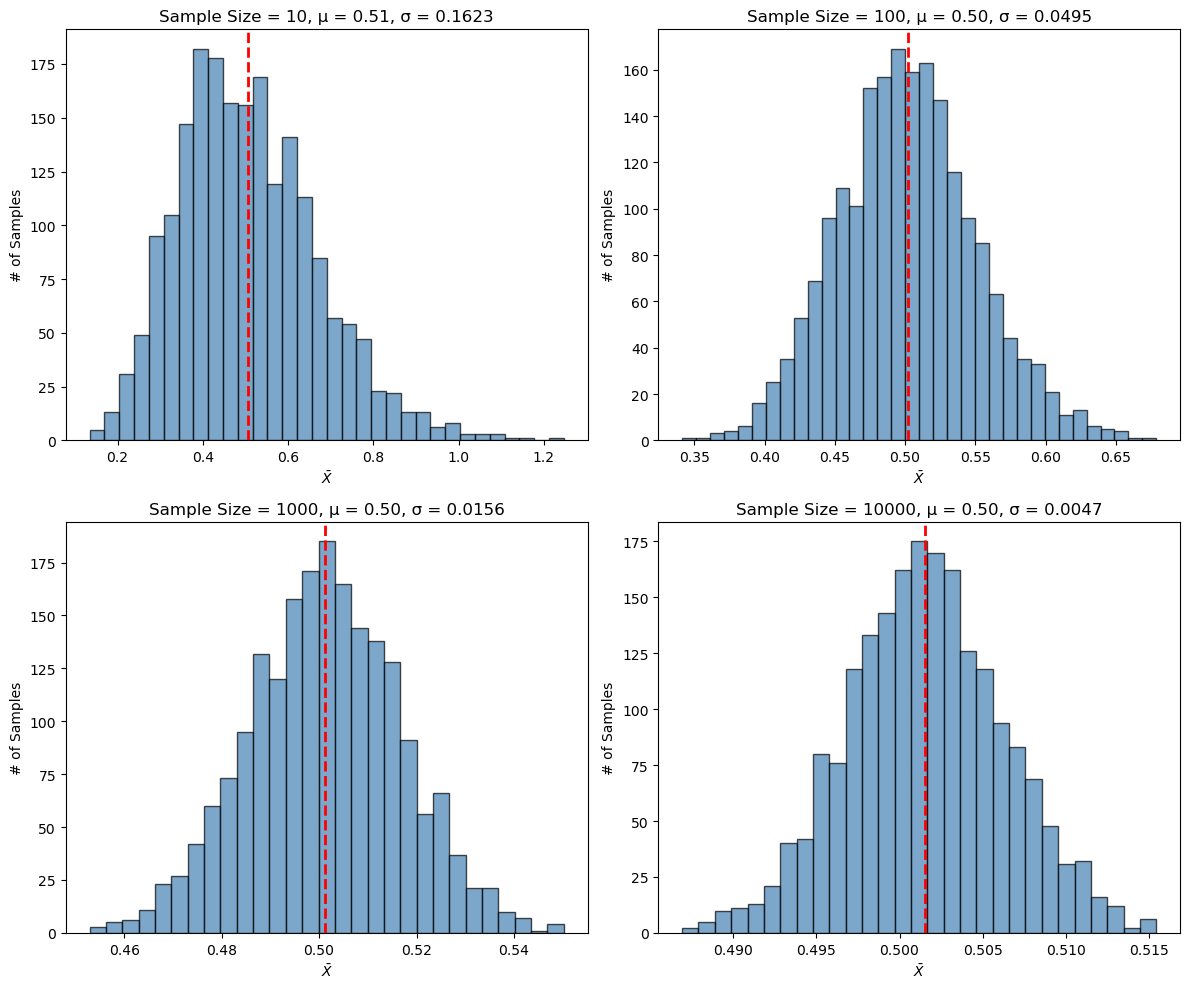
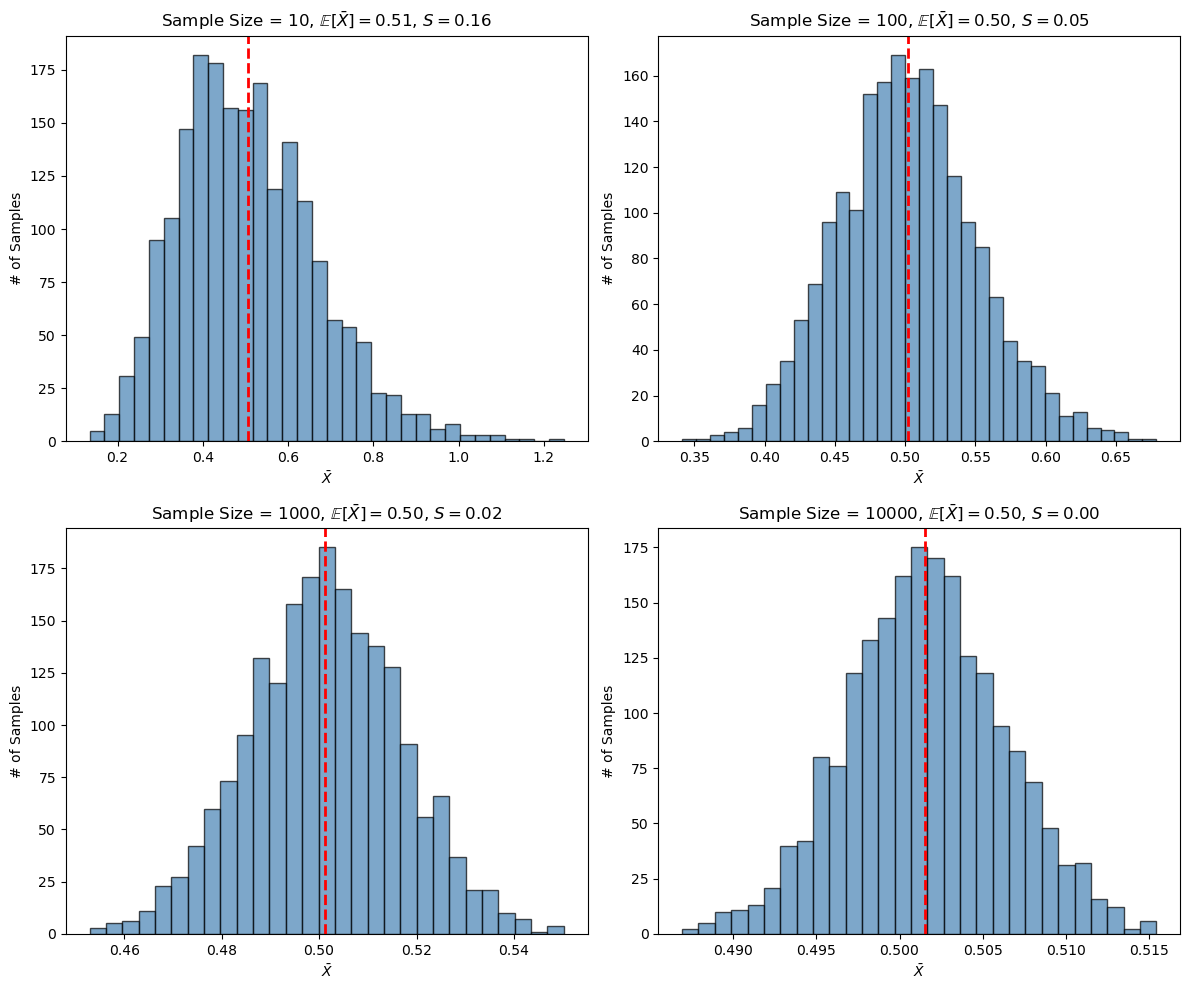
deploy: c1ba12d8c83bbf9eb0a5689657a16dceb7d09241

diff --git a/cn/2024/09/24/clt/index.html b/cn/2024/09/24/clt/index.html
@@ -35,9 +35,9 @@
 </header>
 <main class=content role=main>
 <div style=text-align:center>
-<h1>用模拟的方法学习统计学之中心极限定理</h1>
+<h1>理解中心极限定理</h1>
 <p>郝鸿涛
-/ 2024-09-17 </p>
+/ 2024-09-24 </p>
 </div>
 <span class=article-toolbar>
 <a href=https://github.com/hongtaoh/hongtaoh.github.io/edit/sources/content/cn/blog/2024-09-17-stats-simulation.md style=font-size:24px;color:#000 target=_blank><i class="fa fa-edit" aria-hidden=true title=编辑本页></i>
@@ -69,7 +69,7 @@ Table of Contents:
 </blockquote>
 <h2 id=标准误>标准误<a href=#标准误 class=header-anchor arialabel=Anchor> # </a></h2>
 <p>如果我们只用模拟，不用数学公式。上面这题就很好解决：80 亿人抽 100 个人，我们重复 1 万次，每次都算出平均值。平均值大于等于 110 的次数除以 1 万，就是随机抽取 100 人，该 100 人平均智商大于等于 110 的概率。这个应该很好理解吧？</p>
-<p>但我们不满足于此。我们想看看从正态分布为 <code>$\mathcal{N}(\mu, \sigma^2)$</code> 的母体中随机抽取 <code>$M$</code> 个大小为 <code>$N$</code> 的样本。每个样本算出其平均值 (<code>$\bar{X}$</code>)，也就是说总共有 <code>$M$</code> 个 <code>$\bar{X}$</code>。我们想看一下所有 <code>$\bar{X}$</code> 的分布是否存在某种规律。顺带提一句：这个分布的标准差被称为「标准误 (standard error)」。</p>
+<p>但我们不满足于此。我们想看看从正态分布为 <code>$\mathcal{N}(\mu, \sigma^2)$</code> 的母体中随机抽取 <code>$M$</code> 个大小为 <code>$N$</code> 的样本。每个样本算出其平均值 (<code>$\bar{X}$</code>)，也就是说总共有 <code>$M$</code> 个 <code>$\bar{X}$</code>。我们想看一下 <code>$\bar{X}$</code> 的分布是否存在某种规律。顺带提一句：这个分布的标准差被称为「标准误 (standard error)」。</p>
 <p>我们先把母体的正态分布模拟一下：</p>
 <div class=highlight><pre tabindex=0 style=-moz-tab-size:4;-o-tab-size:4;tab-size:4><code class=language-python data-lang=python><span style=color:green;font-weight:700>import</span> <span style=color:#00f;font-weight:700>numpy</span> <span style=color:green;font-weight:700>as</span> <span style=color:#00f;font-weight:700>np</span>
 <span style=color:green;font-weight:700>import</span> <span style=color:#00f;font-weight:700>matplotlib.pyplot</span> <span style=color:green;font-weight:700>as</span> <span style=color:#00f;font-weight:700>plt</span>
@@ -129,7 +129,7 @@ plt<span style=color:#666>.</span>figure(figsize<span style=color:#666>=</span>(
              alpha<span style=color:#666>=</span><span style=color:#666>0.7</span>, color<span style=color:#666>=</span><span style=color:#ba2121>&#39;steelblue&#39;</span>, edgecolor<span style=color:#666>=</span><span style=color:#ba2121>&#39;black&#39;</span>)
     <span style=color:#408080;font-style:italic># Plot vertical line at the mean</span>
     plt<span style=color:#666>.</span>axvline(mu, color<span style=color:#666>=</span><span style=color:#ba2121>&#39;red&#39;</span>, linestyle<span style=color:#666>=</span><span style=color:#ba2121>&#39;--&#39;</span>, linewidth<span style=color:#666>=</span><span style=color:#666>2</span>)
-    plt<span style=color:#666>.</span>title(<span style=color:#ba2121>f</span><span style=color:#ba2121>&#39;Sample Size = </span><span style=color:#b68;font-weight:700>{</span>size<span style=color:#b68;font-weight:700>}</span><span style=color:#ba2121>, μ = </span><span style=color:#b68;font-weight:700>{</span>mu<span style=color:#b68;font-weight:700>:</span><span style=color:#ba2121>.2f</span><span style=color:#b68;font-weight:700>}</span><span style=color:#ba2121>, σ = </span><span style=color:#b68;font-weight:700>{</span>sigma<span style=color:#b68;font-weight:700>:</span><span style=color:#ba2121>.2f</span><span style=color:#b68;font-weight:700>}</span><span style=color:#ba2121>&#39;</span>)    
+    plt<span style=color:#666>.</span>title(<span style=color:#ba2121>rf</span><span style=color:#ba2121>&#39;Sample Size = </span><span style=color:#b68;font-weight:700>{</span>size<span style=color:#b68;font-weight:700>}</span><span style=color:#ba2121>, `$\mathbb</span><span style=color:#b62;font-weight:700>{{</span><span style=color:#ba2121>E</span><span style=color:#b62;font-weight:700>}}</span><span style=color:#ba2121>[\bar</span><span style=color:#b62;font-weight:700>{{</span><span style=color:#ba2121>X</span><span style=color:#b62;font-weight:700>}}</span><span style=color:#ba2121>] = </span><span style=color:#b68;font-weight:700>{</span>mu<span style=color:#b68;font-weight:700>:</span><span style=color:#ba2121>.2f</span><span style=color:#b68;font-weight:700>}</span><span style=color:#ba2121>$`, `$S = </span><span style=color:#b68;font-weight:700>{</span>sigma<span style=color:#b68;font-weight:700>:</span><span style=color:#ba2121>.2f</span><span style=color:#b68;font-weight:700>}</span><span style=color:#ba2121>$`&#39;</span>)
     plt<span style=color:#666>.</span>xlabel(<span style=color:#ba2121>&#39;`$</span><span style=color:#b62;font-weight:700>\\</span><span style=color:#ba2121>bar{{X}}$`&#39;</span>)
     plt<span style=color:#666>.</span>ylabel(<span style=color:#ba2121>&#39;# of Samples&#39;</span>)
 
@@ -146,16 +146,16 @@ plt<span style=color:#666>.</span>show()
     sub_data <span style=color:#666>=</span> sample_means[sample_size]
     mu <span style=color:#666>=</span> np<span style=color:#666>.</span>mean(sub_data)
     sigma <span style=color:#666>=</span> np<span style=color:#666>.</span>std(sub_data)
-    <span style=color:green>print</span>(<span style=color:#ba2121>f</span><span style=color:#ba2121>&#34;N = </span><span style=color:#b68;font-weight:700>{</span>sample_size<span style=color:#b68;font-weight:700>}</span><span style=color:#ba2121>, Mean (X̄) = </span><span style=color:#b68;font-weight:700>{</span>mu<span style=color:#b68;font-weight:700>:</span><span style=color:#ba2121>.2f</span><span style=color:#b68;font-weight:700>}</span><span style=color:#ba2121>, Std (X̄) = </span><span style=color:#b68;font-weight:700>{</span>sigma<span style=color:#b68;font-weight:700>:</span><span style=color:#ba2121>.2f</span><span style=color:#b68;font-weight:700>}</span><span style=color:#ba2121>, &#34;</span> \
+    <span style=color:green>print</span>(<span style=color:#ba2121>f</span><span style=color:#ba2121>&#34;N = </span><span style=color:#b68;font-weight:700>{</span>sample_size<span style=color:#b68;font-weight:700>}</span><span style=color:#ba2121>, 样本平均值的平均值 = </span><span style=color:#b68;font-weight:700>{</span>mu<span style=color:#b68;font-weight:700>:</span><span style=color:#ba2121>.2f</span><span style=color:#b68;font-weight:700>}</span><span style=color:#ba2121>, 样本平均值的标准差 = </span><span style=color:#b68;font-weight:700>{</span>sigma<span style=color:#b68;font-weight:700>:</span><span style=color:#ba2121>.2f</span><span style=color:#b68;font-weight:700>}</span><span style=color:#ba2121>, &#34;</span> \
           <span style=color:#ba2121>f</span><span style=color:#ba2121>&#34;σ/sqrt(</span><span style=color:#b68;font-weight:700>{</span>sample_size<span style=color:#b68;font-weight:700>}</span><span style=color:#ba2121>) = </span><span style=color:#b68;font-weight:700>{</span>(population_sigma<span style=color:#666>/</span>np<span style=color:#666>.</span>sqrt(sample_size))<span style=color:#b68;font-weight:700>:</span><span style=color:#ba2121>.2f</span><span style=color:#b68;font-weight:700>}</span><span style=color:#ba2121>&#34;</span>)
 </code></pre></div><pre><code>μ = 100.01, σ = 15.01
-N = 10, Mean (X̄) = 99.97, Std (X̄) = 4.72, σ/sqrt(10) = 4.75
-N = 100, Mean (X̄) = 100.07, Std (X̄) = 1.49, σ/sqrt(100) = 1.50
-N = 1000, Mean (X̄) = 100.02, Std (X̄) = 0.46, σ/sqrt(1000) = 0.47
-N = 10000, Mean (X̄) = 100.01, Std (X̄) = 0.14, σ/sqrt(10000) = 0.15
+N = 10, 样本平均值的平均值 = 99.97, 样本平均值的标准差 = 4.72, σ/sqrt(10) = 4.75
+N = 100, 样本平均值的平均值 = 100.07, 样本平均值的标准差 = 1.49, σ/sqrt(100) = 1.50
+N = 1000, 样本平均值的平均值 = 100.02, 样本平均值的标准差 = 0.46, σ/sqrt(1000) = 0.47
+N = 10000, 样本平均值的平均值 = 100.01, 样本平均值的标准差 = 0.14, σ/sqrt(10000) = 0.15
 </code></pre>
 <p>结论：</p>
-<p>从一个正态分布 <code>$\mathcal{N}(\mu, \sigma^2)$</code> 的母体中，随机不放回抽取 <code>$M$</code> 个大小为 <code>$N$</code> 的样本，所有样本的平均值 <code>$\bar{X}$</code> 的分布为：</p>
+<p>从一个正态分布 <code>$\mathcal{N}(\mu, \sigma^2)$</code> 的母体中，随机不放回抽取 <code>$M$</code> 个大小为 <code>$N$</code> 的样本，样本的平均值 <code>$\bar{X}$</code> 的分布为：</p>
 <p><code>$$ \bar{X} \sim \mathcal{N} \left( \mu, \frac{\sigma^2}{N} \right) $$</code></p>
 <h3 id=解答问题>解答问题<a href=#解答问题 class=header-anchor arialabel=Anchor> # </a></h3>
 <p>有了以上结论，最初的问题就很好解答了。</p>
@@ -206,10 +206,13 @@ plt<span style=color:#666>.</span>figure(figsize<span style=color:#666>=</span>(
     mu <span style=color:#666>=</span> np<span style=color:#666>.</span>mean(sub_data)
     sigma <span style=color:#666>=</span> np<span style=color:#666>.</span>std(sub_data)
     plt<span style=color:#666>.</span>subplot(<span style=color:#666>2</span>, <span style=color:#666>2</span>, i <span style=color:#666>+</span> <span style=color:#666>1</span>)  <span style=color:#408080;font-style:italic># 2x2 grid, subplot index starts at 1</span>
-    plt<span style=color:#666>.</span>hist(sub_data, bins<span style=color:#666>=</span><span style=color:#ba2121>&#34;auto&#34;</span>, density<span style=color:#666>=</span><span style=color:green;font-weight:700>False</span>, alpha<span style=color:#666>=</span><span style=color:#666>0.7</span>, color<span style=color:#666>=</span><span style=color:#ba2121>&#39;steelblue&#39;</span>, edgecolor<span style=color:#666>=</span><span style=color:#ba2121>&#39;black&#39;</span>)
+    plt<span style=color:#666>.</span>hist(sub_data, bins<span style=color:#666>=</span><span style=color:#ba2121>&#34;auto&#34;</span>, density<span style=color:#666>=</span><span style=color:green;font-weight:700>False</span>,
+             alpha<span style=color:#666>=</span><span style=color:#666>0.7</span>, color<span style=color:#666>=</span><span style=color:#ba2121>&#39;steelblue&#39;</span>, edgecolor<span style=color:#666>=</span><span style=color:#ba2121>&#39;black&#39;</span>)
     <span style=color:#408080;font-style:italic># Plot vertical line at the mean</span>
     plt<span style=color:#666>.</span>axvline(mu, color<span style=color:#666>=</span><span style=color:#ba2121>&#39;red&#39;</span>, linestyle<span style=color:#666>=</span><span style=color:#ba2121>&#39;--&#39;</span>, linewidth<span style=color:#666>=</span><span style=color:#666>2</span>)
-    plt<span style=color:#666>.</span>title(<span style=color:#ba2121>f</span><span style=color:#ba2121>&#39;Sample Size = </span><span style=color:#b68;font-weight:700>{</span>size<span style=color:#b68;font-weight:700>}</span><span style=color:#ba2121>, μ = </span><span style=color:#b68;font-weight:700>{</span>mu<span style=color:#b68;font-weight:700>:</span><span style=color:#ba2121>.2f</span><span style=color:#b68;font-weight:700>}</span><span style=color:#ba2121>, σ = </span><span style=color:#b68;font-weight:700>{</span>sigma<span style=color:#b68;font-weight:700>:</span><span style=color:#ba2121>.4f</span><span style=color:#b68;font-weight:700>}</span><span style=color:#ba2121>&#39;</span>)    
+    plt<span style=color:#666>.</span>title(<span style=color:#ba2121>rf</span><span style=color:#ba2121>&#39;Sample Size = </span><span style=color:#b68;font-weight:700>{</span>size<span style=color:#b68;font-weight:700>}</span><span style=color:#ba2121>, &#39;</span>
+              <span style=color:#ba2121>rf</span><span style=color:#ba2121>&#39;`$\mathbb</span><span style=color:#b62;font-weight:700>{{</span><span style=color:#ba2121>E</span><span style=color:#b62;font-weight:700>}}</span><span style=color:#ba2121>[\bar</span><span style=color:#b62;font-weight:700>{{</span><span style=color:#ba2121>X</span><span style=color:#b62;font-weight:700>}}</span><span style=color:#ba2121>] = </span><span style=color:#b68;font-weight:700>{</span>mu<span style=color:#b68;font-weight:700>:</span><span style=color:#ba2121>.2f</span><span style=color:#b68;font-weight:700>}</span><span style=color:#ba2121>$`, &#39;</span>
+              <span style=color:#ba2121>rf</span><span style=color:#ba2121>&#39;`$S = </span><span style=color:#b68;font-weight:700>{</span>sigma<span style=color:#b68;font-weight:700>:</span><span style=color:#ba2121>.2f</span><span style=color:#b68;font-weight:700>}</span><span style=color:#ba2121>$`&#39;</span>)
     plt<span style=color:#666>.</span>xlabel(<span style=color:#ba2121>&#39;`$</span><span style=color:#b62;font-weight:700>\\</span><span style=color:#ba2121>bar{{X}}$`&#39;</span>)
     plt<span style=color:#666>.</span>ylabel(<span style=color:#ba2121>&#39;# of Samples&#39;</span>)
 
@@ -233,11 +236,17 @@ N = 1000, Mean (X̄) = 0.50, Std (X̄) = 0.0156, σ/sqrt(1000) = 0.0159
 N = 10000, Mean (X̄) = 0.50, Std (X̄) = 0.0047, σ/sqrt(10000) = 0.0050
 </code></pre>
 <p>我们看到，不管母体分布如何，只要每次样本的样本量足够大，<code>$\bar{X}$</code> 的分布都无限趋近于正态分布。</p>
-<p>结论是，不论母体分布是不是正态，假设母体平均值为 <code>$\mu$</code>，标准差为 <code>$\sigma$</code>，我们从母体中随机不放回抽取 <code>$M$</code> 个大小为 <code>$N$</code> 的样本，所有样本的平均值 <code>$\bar{X}$</code> 的分布为：</p>
-<p><code>$$\bar{X} \sim \mathcal{N} \left(\mu, \frac{\sigma}{\sqrt{N}} \right)$$</code></p>
+<p>结论是，不论母体分布是不是正态，假设母体平均值为 <code>$\mu$</code>，标准差为 <code>$\sigma$</code>，我们从母体中随机不放回抽取 <code>$M$</code> 个大小为 <code>$N$</code> 的样本，样本的平均值 <code>$\bar{X}$</code> 的分布为：</p>
+<p><code>$$ \bar{X} \sim \mathcal{N} \left( \mu, \frac{\sigma^2}{N} \right) $$</code></p>
 <p>以上就是中心极限定理。至于「每次样本的样本量足够大」到底是多大，我们从上图中看到，如果母体是一个高度偏态分布，那么当 <code>$N$</code> 大于 <code>$1000$</code> 时，<code>$\bar{X}$</code> 的分布就已经呈现正态分布的形态了。</p>
+<p>但是在具体用的时候，我们还是要遵循一定的法则。</p>
+<ul>
+<li>如果母体本身是正态分布，那么对于 <code>$N \ge 1$</code>，<code>$\bar{X}$</code> 的分布基本就是上面所描述的正态分布。</li>
+<li>如果母体本身非正态分布，对于 <code>$N \ge 30$</code>，<code>$\bar{X}$</code> 的分布基本上也符合上述正态分布的特征。</li>
+<li>如果母体本身非正态分布，对于 <code>$N \lt 30$</code>，<code>$\bar{X}$</code> 的分布无法用上面的正态分布准确描述。此时，较好的做法是使用 t 分布（t-distribution）来进行估计。</li>
+</ul>
 <a href=https://hongtaoh.com/tags/%E7%BB%9F%E8%AE%A1%E5%AD%A6/>#统计学</a>
-<p style=color:#777>最后一次修改于 2024-09-24</p>
+<p style=color:#777>最后一次修改于 2024-09-29</p>
 </div>
 <a href=#top><i class="fa fa-chevron-up" style=font-size:30px;color:#000></i></a>
 </main>

diff --git a/cn/blog/index.html b/cn/blog/index.html
@@ -38,18 +38,18 @@
 <h2 style=text-align:left>2024</h2>
 <p>
 <span class=date>
-2024-09-18
+2024-09-24
 </span>
-<a href=/cn/2024/09/18/flow/>
-心流状态
+<a href=/cn/2024/09/24/clt/>
+理解中心极限定理
 </a>
 </p>
 <p>
 <span class=date>
-2024-09-17
+2024-09-18
 </span>
-<a href=/cn/2024/09/17/stats-simulation/>
-用模拟的方法学习统计学之中心极限定理
+<a href=/cn/2024/09/18/flow/>
+心流状态
 </a>
 </p>
 <p>

diff --git a/tags/统计学/index.html b/tags/统计学/index.html
@@ -36,10 +36,10 @@
 <h2 style=text-align:left>2024</h2>
 <p>
 <span class=date>
-2024-09-17
+2024-09-24
 </span>
-<a href=/cn/2024/09/17/stats-simulation/>
-用模拟的方法学习统计学之中心极限定理
+<a href=/cn/2024/09/24/clt/>
+理解中心极限定理
 </a>
 </p>
 </ul>

diff --git a/index.html b/index.html
@@ -85,5 +85,5 @@ Hongtao Hao
 </footer>
 <div style=text-align:center;color:gray;margin-top:-20px;font-size:19px;margin-bottom:10px>
 Site last updated on
-2024-09-24
+2024-09-29
 </div>
